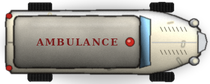
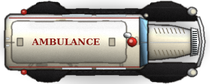
M015.9: the ambulance and the fire engine redrawn as period vehicles
Both were capsule-shaped bodies; they now have the anatomy of the other
1930s vehicles: separate sweeping wings over painted-in wheels, running
boards, a narrow louvred bonnet and an upright chrome grille and bumper.
The ambulance is a long cream coach with black wings, AMBULANCE along the
roof with a red lamp and a siren at its front, frosted side windows and
rear doors. The fire engine is an open-cab pumper in red with gold
striping: the brass bell on the cowl, a siren on a wing, the leather bench
and wheel, the pump's chrome caps, a hose bed of folded canvas, ladders
racked along both sides, black suction hose on the running boards and the
rear step. Same sizes and lamp positions as before (art only); catalog
notes and docs/ASSET_SPECS.md updated; tools/template_art/paint_emergency.py
paints them.

Claude-Session: https://claude.ai/code/session_01HoR6KCEp3G66syjHABb7zF

diff --git a/tools/template_art/paint_emergency.py b/tools/template_art/paint_emergency.py
@@ -1,102 +1,218 @@
-"""M010: the emergency's vehicles, from above, nose right like the cars. They
-are never driven by the player (scenery that drives itself to the scene), so
-every tyre is painted in.
+"""The emergency's vehicles, from above, nose right like the cars. They are never
+driven by the player (scenery that drives itself to the scene), so every tyre
+is painted in. M015: redrawn as period vehicles with the anatomy of the other
+cars - separate sweeping wings over the wheels, running boards, a narrow
+louvred bonnet and an upright chrome grille - instead of capsule bodies.
 
-cars/ambulance   - a 1930s ambulance: a long cream body on a car chassis, a
-                   grey roof with a red lamp at the front, AMBULANCE along the
-                   roof, chrome at the nose. 210 x 84.
-cars/fire_engine - a red pumper: a long bonnet, an open cab, the brass bell,
-                   a hose reel behind the seat and the ladder along the top.
-                   300 x 104."""
-import random
-
+cars/ambulance   - a long 1930s coach-built ambulance on a car chassis: a cream
+                   body with black wings and running boards, the long roof with
+                   AMBULANCE along it, a red lamp and a chrome siren at its front,
+                   frosted side windows, a bright windscreen, a narrow louvred
+                   bonnet and a tall V grille, the rear doors at the back. 210 x 84.
+cars/fire_engine - a 1930s open-cab pumper in fire-engine red with gold
+                   striping: long louvred bonnet between big wings, a chrome
+                   grille and bumper, the brass bell on the cowl, a siren on a
+                   wing, the open cab's leather bench and wheel, the pump's
+                   chrome caps behind it, the hose bed of folded canvas, ladders
+                   racked along both sides, black suction hose on the running
+                   boards, the rear step. 300 x 104."""
 from PIL import ImageDraw
 
 from paintkit import *
+from paint_props import DECO
 from paint_vehicles import lamp, tyre_top, sheen, CHROME, CHROME_DARK
 
 OUT = (20, 16, 14)
+GLASS = "#6f97b2"
 
 
-def _wheels(img, xs, w, h, wide, seed):
-    for k, x in enumerate(xs):
-        tyre_top(img, x, 2.5, x + wide, 12, seed + k)
-        tyre_top(img, x, h - 12, x + wide, h - 2.5, seed + 10 + k)
+def _pair(img, pts, h, color, seed, **kw):
+    """A shape on the top side and its mirror on the bottom (about the middle of an image h high)."""
+    for k, ps in enumerate((pts, [(x, h - y) for x, y in reversed(pts)])):
+        paint_shape(img, SP(ps), color, seed + k, **kw)
+
+
+def _wing(x0, x1, y_out, y_in, nose=0.35):
+    """A teardrop wing over a wheel, outer edge at y_out, inner edge at y_in (top side); `nose` how far forward the bulge sits."""
+    import math
+    pts = []
+    n = 24
+    for i in range(n + 1):
+        t = i / n
+        x = x0 + (x1 - x0) * t
+        bulge = math.sin(math.pi * t) ** (0.7 if t < nose else 0.9)
+        pts.append((x, y_in - (y_in - y_out) * bulge))
+    pts.append((x1 - (x1 - x0) * 0.08, y_in + 1.0))
+    pts.append((x0 + (x1 - x0) * 0.08, y_in + 1.0))
+    return pts
+
+
+def _grille(img, d, x0, x1, y0, y1, seed, slat="#2e3234"):
+    """A tall upright chrome grille, slightly V-fronted, with dark horizontal slats."""
+    mid = (y0 + y1) * 0.5
+    paint_shape(img, SP([(x0, y0), (x1 - 2, y0 + 1.5), (x1, mid), (x1 - 2, y1 - 1.5), (x0, y1)]), CHROME, seed, outline=OUT,
+                ow=1.1, wob=0.06, light=(1, -1, 0.45))
+    for y in range(int(y0 + 3), int(y1 - 2), 2):
+        d.line([(S(x0 + 1.5), S(y)), (S(x1 - 2.5), S(y))], fill=rgba(slat), width=SS)
 
 
 def ambulance(seed=81):
     W, H = 210, 84
     img = new(W, H)
-    soft_blob(img, S(105), S(44), S(100), S(38), "#000000", 70, 5 * SS)
-    _wheels(img, [28, 150], W, H, 24, seed)
-    body = "#e4dcc4"
-    paint_shape(img, SP([(6, 18), (12, 11), (150, 10), (170, 14), (194, 24), (200, 30), (200, 54), (194, 60),
-                         (170, 70), (150, 74), (12, 73), (6, 66)]), body, seed + 1, outline=OUT, ow=1.8, wob=0.25,
-                tex=0.12, strokes_n=12, light=(0.2, -1, 0.4), inner_shadow=0.3)
-    # the bonnet: louvres, the hinge strip, the radiator, lamps and bumper
-    for x in range(160, 188, 4):
-        for y0 in (27, 50):
-            line(img, [S(x, y0), S(x + 2, y0 + 4)], "#6a6250", 1.2 * SS, 200, blur=0.2)
-    line(img, [S(152, 42), S(196, 42)], CHROME, 1.3 * SS, 230, blur=0.2)
-    paint_shape(img, SP([(198, 31), (205, 34), (207, 42), (205, 50), (198, 53)]), CHROME, seed + 2, outline=OUT, ow=1.0, wob=0.05)
-    lamp(img, 194, 23, 4.6, seed + 3)
-    lamp(img, 194, 61, 4.6, seed + 4)
-    # the cabin's windscreen and the long roof with its lettering and the red lamp
-    paint_shape(img, SP([(140, 16), (150, 19), (150, 65), (140, 68)]), "#6f97b2", seed + 5, outline=OUT, ow=1.0, wob=0.1, tex=0.08,
+    d = ImageDraw.Draw(img)
+    soft_blob(img, S(104), S(44), S(100), S(38), "#000000", 70, 5 * SS)
+    black = "#1c1b1c"
+    body = "#e6dec6"
+    # every tyre painted in, under the wings
+    for x in (36, 150):
+        tyre_top(img, x, 2.5, x + 24, 12.5, seed + x)
+        tyre_top(img, x, H - 12.5, x + 24, H - 2.5, seed + x + 1)
+    # the running boards between the wings
+    _pair(img, rrect_pts(62, 9, 152, 15.5, 2), H, black, seed + 2, outline=OUT, ow=1.0, wob=0.15, tex=0.3)
+    for x in range(66, 150, 6):  # rubber treads on the boards
+        for y in (12.2, H - 12.2):
+            line(img, [(S(x), S(y)), (S(x + 3), S(y))], "#3a393a", 0.9 * SS, 200, blur=0.1)
+    # the rear and front wings (black), the front ones sweeping forward to the lamps
+    _pair(img, _wing(22, 74, 2.0, 17.5, 0.5), H, black, seed + 4, outline=OUT, ow=1.5, wob=0.2, tex=0.18, light=(0.3, -1, 0.5))
+    _pair(img, _wing(132, 200, 1.5, 20.0, 0.62), H, black, seed + 6, outline=OUT, ow=1.5, wob=0.2, tex=0.18, light=(0.3, -1, 0.5))
+    for y in (8.0, H - 8.0):
+        sheen(img, [(146, y - 1.5), (190, y - 0.8), (190, y + 0.4), (146, y - 0.2)], 50, 0.8)
+    # the coach body: long and square-backed, the roof inset with a seam, a red stripe along each side
+    paint_shape(img, SP(rrect_pts(5, 14, 146, 70, 7)), body, seed + 8, outline=OUT, ow=1.8, wob=0.2, tex=0.1, strokes_n=12,
+                stroke_cols=[shade(body, 1.04), shade(body, 0.93)], light=(0.2, -1, 0.4), inner_shadow=0.3)
+    for y in (17.5, H - 17.5):
+        line(img, [(S(9), S(y)), (S(140), S(y))], "#9c2a22", 1.3 * SS, 230, blur=0.2)
+    # frosted side windows along the coach (seen edge-on from above as pale strips)
+    for x0, x1 in ((62, 92), (96, 126)):
+        for y0, y1 in ((14.5, 16.2), (H - 16.2, H - 14.5)):
+            paint_shape(img, SP(rrect_pts(x0, y0, x1, y1, 0.8)), "#c9d6dc", seed + x0, outline=None, wob=0.05, tex=0.05)
+    paint_shape(img, SP(rrect_pts(12, 21, 126, 63, 5)), "#ece6d2", seed + 9, outline=(110, 100, 84), ow=1.0, wob=0.15, tex=0.08,
+                light=(0.1, -1, 0.5))
+    text(img, (66, 42), "AMBULANCE", 9.0, "#8a1e1a", font=DECO)
+    for x in (20, 112):  # roof ventilators
+        paint_shape(img, SP(rrect_pts(x - 3, 38, x + 3, 46, 1.2)), "#bdb6a2", seed + x, outline=OUT, ow=0.7, wob=0.05)
+    # the red lamp and the chrome siren at the front of the roof
+    paint_shape(img, SP(ellipse_pts(132, 42, 4.6, 4.6)), "#c42820", seed + 10, outline=OUT, ow=0.9, wob=0.05, light=(0.4, -1, 0.6))
+    soft_blob(img, S(131), S(41), S(1.9), S(1.7), "#ffc0b0", 220, 0.5 * SS)
+    paint_shape(img, SP(rrect_pts(124, 33, 131, 37.5, 1.8)), CHROME, seed + 11, outline=OUT, ow=0.7, wob=0.05, light=(1, -1, 0.5))
+    # the windscreen at the front of the coach (the brightest glass), the cowl ahead of it
+    paint_shape(img, SP([(140, 17), (148, 20), (148, 64), (140, 67)]), GLASS, seed + 12, outline=OUT, ow=1.2, wob=0.1, tex=0.08,
                 light=(1, -1, 0.6))
-    paint_shape(img, SP(rrect_pts(14, 16, 140, 68, 6)), "#9a968c", seed + 6, outline=OUT, ow=1.5, wob=0.2, tex=0.15,
-                light=(0.1, -1, 0.5), inner_shadow=0.25)
-    text(img, (77, 42), "AMBULANCE", 9.5, "#7a1e1e", spacing=1.2)
-    paint_shape(img, SP(ellipse_pts(130, 42, 4.2, 4.2)), "#c42820", seed + 7, outline=OUT, ow=0.9, wob=0.05)
-    soft_blob(img, S(129), S(41), S(1.8), S(1.6), "#ffb0a0", 200, 0.5 * SS)
-    # the back doors and the tail lamps
-    line(img, [S(8, 42), S(13, 42)], "#7a7262", 1.2 * SS, 220)
-    for y in (16, 68):
-        paint_shape(img, SP(ellipse_pts(9, y, 3.0, 2.6)), "#b3221c", seed + 8, outline=OUT, ow=0.8, wob=0.1)
-    sheen(img, [(30, 22), (130, 22), (130, 27), (30, 27)], 45, 2.0)
+    line(img, [(S(142), S(21)), (S(146.5), S(30))], "#e6f2fa", 1.3 * SS, 190, blur=0.4)
+    line(img, [(S(140.5), S(42)), (S(147.5), S(42))], CHROME_DARK, 1.0 * SS, 230)
+    # the bonnet: narrow, cream, louvred, a chrome strip down the middle, narrowing to the grille
+    hood = [(148, 24), (176, 26), (192, 30), (192, 54), (176, 58), (148, 60)]
+    paint_shape(img, SP(hood), body, seed + 13, outline=OUT, ow=1.5, wob=0.2, tex=0.1, light=(0.2, -1, 0.45), inner_shadow=0.3)
+    for x in range(154, 186, 4):
+        for y0 in (28, 50):
+            line(img, [(S(x), S(y0)), (S(x + 2), S(y0 + 5))], "#857a62", 1.2 * SS, 210, blur=0.2)
+    line(img, [(S(150), S(42)), (S(191), S(42))], CHROME, 1.3 * SS, 230, blur=0.2)
+    sheen(img, [(156, 33), (188, 34), (188, 36), (156, 35)], 55, 1.2)
+    # the tall V grille, the bumper bowed forward, the headlamps on the wings, a spotlight by the screen
+    _grille(img, d, 191, 199, 28, 56, seed + 14)
+    paint_shape(img, SP([(199, 17), (203, 28), (205, 42), (203, 56), (199, 67), (196.5, 67), (200, 56), (202, 42), (200, 28),
+                         (196.5, 17)]), CHROME, seed + 15, outline=OUT, ow=1.0, wob=0.05, light=(1, -1, 0.4))
+    lamp(img, 192, 11.5, 4.6, seed + 16)
+    lamp(img, 192, H - 11.5, 4.6, seed + 17)
+    lamp(img, 146, 15.5, 2.4, seed + 18)
+    # the back: the double doors' seam and handles, the red tail lamps on the rear wings
+    line(img, [(S(5.5), S(42)), (S(14), S(42))], "#7a7262", 1.2 * SS, 220)
+    for y in (38.5, 45.5):
+        paint_shape(img, SP(rrect_pts(6, y - 1, 9.5, y + 1, 0.5)), CHROME, seed + 19, outline=None, wob=0.02)
+    for y in (12, H - 12):
+        paint_shape(img, SP(ellipse_pts(24, y, 3.0, 2.6)), "#b3221c", seed + 20, outline=OUT, ow=0.8, wob=0.1)
+        soft_blob(img, S(23.6), S(y - 0.5), S(1.2), S(1.0), "#ffb0a0", 160, 0.4 * SS)
+    sheen(img, [(30, 23), (122, 23), (122, 27), (30, 27)], 40, 2.0)
     return finish(grain(img, 3, seed), W, H)
 
 
 def fire_engine(seed=91):
     W, H = 300, 104
     img = new(W, H)
+    d = ImageDraw.Draw(img)
     soft_blob(img, S(150), S(54), S(144), S(46), "#000000", 70, 6 * SS)
-    _wheels(img, [40, 64, 226], W, H, 22, seed)
-    red = "#b0261c"
-    # the long body, the bonnet ahead of the cab
-    paint_shape(img, SP([(4, 20), (10, 13), (210, 12), (248, 16), (282, 26), (290, 34), (290, 70), (282, 78), (248, 88),
-                         (210, 92), (10, 91), (4, 84)]), red, seed + 1, outline=OUT, ow=2.0, wob=0.25, tex=0.15,
-                strokes_n=16, light=(0.2, -1, 0.45), inner_shadow=0.3)
-    for x in range(250, 278, 4):
-        for y0 in (32, 66):
-            line(img, [S(x, y0), S(x + 2, y0 + 5)], "#4a0c08", 1.3 * SS, 210, blur=0.2)
-    paint_shape(img, SP([(288, 36), (296, 40), (298, 52), (296, 64), (288, 68)]), CHROME, seed + 2, outline=OUT, ow=1.0, wob=0.05)
-    lamp(img, 284, 28, 5.2, seed + 3)
-    lamp(img, 284, 76, 5.2, seed + 4)
-    # the brass bell before the windscreen
-    paint_shape(img, SP(ellipse_pts(250, 52, 6.0, 6.0)), "#d8b050", seed + 5, outline=OUT, ow=1.0, wob=0.05, light=(0.4, -1, 0.7))
-    soft_blob(img, S(248), S(50), S(2.0), S(1.8), "#fff4c0", 200, 0.5 * SS)
-    # the open cab: the seat and the windscreen
-    paint_shape(img, SP([(232, 22), (240, 24), (240, 80), (232, 82)]), "#6f97b2", seed + 6, outline=OUT, ow=1.0, wob=0.1,
+    red = "#b3241a"
+    gold = "#d6b25e"
+    # every tyre painted in: big dual rears, the fronts under the wings
+    for x0, x1 in ((44, 86), (222, 248)):
+        tyre_top(img, x0, 2.0, x1, 13, seed + x0)
+        tyre_top(img, x0, H - 13, x1, H - 2.0, seed + x0 + 1)
+    # running boards with diamond plate, the black suction hose racked along them
+    _pair(img, rrect_pts(88, 8, 222, 15, 2), H, "#8a8d90", seed + 2, outline=OUT, ow=1.0, wob=0.12, tex=0.35)
+    for x in range(92, 220, 5):
+        for y in (11.5, H - 11.5):
+            line(img, [(S(x), S(y - 1.6)), (S(x + 2), S(y + 1.6))], "#5d6064", 0.8 * SS, 200, blur=0.1)
+    for y in (6.5, H - 6.5):
+        paint_shape(img, SP(rrect_pts(96, y - 3.2, 196, y + 3.2, 3.0)), "#191919", seed + 3, outline=OUT, ow=0.9, wob=0.1, tex=0.3)
+        for x in range(99, 194, 3):  # its corrugations
+            line(img, [(S(x), S(y - 2.6)), (S(x), S(y + 2.6))], "#353535", 0.9 * SS, 200, blur=0.1)
+    # the rear wings and the big front wings, red with a gold pinstripe
+    _pair(img, _wing(36, 94, 1.5, 19, 0.5), H, red, seed + 4, outline=OUT, ow=1.6, wob=0.2, tex=0.16, light=(0.3, -1, 0.5))
+    _pair(img, _wing(200, 280, 1.0, 24, 0.62), H, red, seed + 6, outline=OUT, ow=1.6, wob=0.2, tex=0.16, light=(0.3, -1, 0.5))
+    for y in (9.0, H - 9.0):
+        line(img, [(S(214), S(y + (2 if y < 50 else -2))), (S(266), S(y))], gold, 0.9 * SS, 200, blur=0.2)
+        sheen(img, [(214, y - 1.5), (266, y - 1.2), (266, y), (214, y - 0.2)], 45, 0.8)
+    # the body behind the cab: red, square, gold striping round its edge
+    paint_shape(img, SP(rrect_pts(6, 15, 178, 89, 5)), red, seed + 8, outline=OUT, ow=1.9, wob=0.2, tex=0.15, strokes_n=14,
+                stroke_cols=[shade(red, 1.08), shade(red, 0.9)], light=(0.2, -1, 0.45), inner_shadow=0.3)
+    for y in (18.5, H - 18.5):
+        line(img, [(S(10), S(y)), (S(174), S(y))], gold, 0.9 * SS, 210, blur=0.2)
+    # the hose bed: folded canvas hose, lying in long flakes along the body
+    paint_shape(img, SP(rrect_pts(14, 30, 150, 74, 3)), "#3a1410", seed + 9, outline=OUT, ow=1.0, wob=0.1, tex=0.3)
+    for k, y in enumerate(range(32, 74, 4)):
+        flake = "#c4a874" if k % 2 == 0 else "#b39660"
+        paint_shape(img, SP(rrect_pts(16 + (k % 3), y, 148 - (k % 2) * 2, y + 3.4, 1.6)), flake, seed + 30 + k, outline=(90, 70, 40),
+                    ow=0.6, wob=0.2, tex=0.25, light=(0.2, -1, 0.5))
+    for x in (40, 96):  # the brass couplings at the hose's folds
+        paint_shape(img, SP(ellipse_pts(x, 52, 2.6, 2.6)), gold, seed + x, outline=OUT, ow=0.6, wob=0.02, light=(0.4, -1, 0.7))
+    # ladders racked along both sides: two wooden rails and the rungs
+    for yc in (24.0, H - 24.0):
+        for yr in (yc - 3.4, yc + 3.4):
+            paint_shape(img, SP(rrect_pts(8, yr - 1.4, 170, yr + 1.4, 0.8)), "#c79e5c", seed + int(yr), outline=OUT, ow=0.7, wob=0.08,
+                        tex=0.25, light=(0.2, -1, 0.5))
+        for x in range(13, 168, 7):
+            line(img, [(S(x), S(yc - 2.2)), (S(x), S(yc + 2.2))], "#9a7440", 1.2 * SS, 240, blur=0.1)
+    # the pump behind the seat: its housing and chrome caps
+    paint_shape(img, SP(rrect_pts(152, 32, 178, 72, 3)), shade(red, 0.86), seed + 10, outline=OUT, ow=1.2, wob=0.1, tex=0.15)
+    for y in (40, 52, 64):
+        paint_shape(img, SP(ellipse_pts(165, y, 4.0, 4.0)), CHROME, seed + y, outline=OUT, ow=0.8, wob=0.03, light=(1, -1, 0.6))
+        soft_blob(img, S(164), S(y - 1), S(1.4), S(1.2), "#ffffff", 200, 0.3 * SS)
+    # the open cab: the black leather bench with its tufting, the steering wheel, the cowl and windscreen
+    paint_shape(img, SP(rrect_pts(178, 17, 214, 87, 5)), red, seed + 11, outline=OUT, ow=1.6, wob=0.15, tex=0.14, light=(0.2, -1, 0.45))
+    paint_shape(img, SP(rrect_pts(182, 21, 200, 83, 3)), "#1e1a18", seed + 12, outline=OUT, ow=1.0, wob=0.12, tex=0.3)
+    for y in range(26, 80, 8):
+        line(img, [(S(184), S(y)), (S(198), S(y))], "#3a322c", 1.0 * SS, 220, blur=0.2)
+    d.ellipse([S(200), S(26), S(212), S(38)], outline=rgba("#1a1614"), width=int(1.6 * SS))  # the wheel, driver's side
+    line(img, [(S(206), S(32)), (S(212), S(32))], "#1a1614", 1.2 * SS, 255, blur=0.1)
+    paint_shape(img, SP([(212, 19), (220, 22), (220, 82), (212, 85)]), GLASS, seed + 13, outline=OUT, ow=1.2, wob=0.1, tex=0.08,
                 light=(1, -1, 0.6))
-    paint_shape(img, SP(rrect_pts(206, 24, 230, 80, 3)), "#3a2a20", seed + 7, outline=OUT, ow=1.0, wob=0.15, tex=0.3)
-    # the hose reel (a drum of grey hose) behind the seat
-    paint_shape(img, SP(rrect_pts(176, 26, 202, 78, 6)), "#6a6a64", seed + 8, outline=OUT, ow=1.0, wob=0.15, tex=0.3,
-                light=(0.2, -1, 0.5))
-    for y in range(30, 76, 4):
-        line(img, [S(178, y), S(200, y)], "#4a4a46", 0.9 * SS, 200)
-    # the ladder along the top: two wooden rails and the rungs
-    for y in (34, 70):
-        paint_shape(img, SP(rrect_pts(10, y - 3, 200, y + 3, 1)), "#c09a5a", seed + 9 + y, outline=OUT, ow=0.9, wob=0.1,
-                    tex=0.25, light=(0.2, -1, 0.5))
-    for x in range(16, 198, 9):
-        line(img, [S(x, 37), S(x, 67)], "#a07a42", 1.6 * SS, 240)
-    # chrome rails and the tail lamps
-    for y in (15, 89):
-        line(img, [S(14, y), S(204, y)], CHROME_DARK, 1.2 * SS, 220)
-    for y in (18, 86):
-        paint_shape(img, SP(ellipse_pts(8, y, 3.2, 2.8)), "#e04a2a", seed + 12, outline=OUT, ow=0.8, wob=0.1)
-    sheen(img, [(246, 30), (282, 34), (282, 38), (246, 35)], 55, 1.6)
+    line(img, [(S(214), S(24)), (S(218.5), S(34))], "#e6f2fa", 1.3 * SS, 190, blur=0.4)
+    # the bonnet: long, louvred, a gold strip down the middle, the brass bell on the cowl ahead of the screen
+    hood = [(220, 28), (252, 30), (274, 34), (274, 70), (252, 74), (220, 76)]
+    paint_shape(img, SP(hood), red, seed + 14, outline=OUT, ow=1.6, wob=0.2, tex=0.14, strokes_n=6,
+                stroke_cols=[shade(red, 1.1), shade(red, 0.9)], light=(0.2, -1, 0.45), inner_shadow=0.3)
+    for x in range(232, 270, 4):
+        for y0 in (33, 64):
+            line(img, [(S(x), S(y0)), (S(x + 2), S(y0 + 6))], "#4a0c08", 1.3 * SS, 210, blur=0.2)
+    line(img, [(S(222), S(52)), (S(273), S(52))], gold, 1.2 * SS, 230, blur=0.2)
+    text(img, (248, 44), "12", 7.0, gold, font=DECO)
+    paint_shape(img, SP(ellipse_pts(227, 52, 6.4, 6.4)), "#d8b050", seed + 15, outline=OUT, ow=1.0, wob=0.04, light=(0.4, -1, 0.75))
+    soft_blob(img, S(225.4), S(50.2), S(2.2), S(2.0), "#fff4c0", 210, 0.5 * SS)
+    paint_shape(img, SP(ellipse_pts(227, 52, 1.6, 1.6)), "#7a5a20", seed + 16, outline=None, wob=0.02)
+    sheen(img, [(236, 38), (270, 39), (270, 41), (236, 40)], 55, 1.4)
+    # the grille, the bumper, the headlamps on the wings, a chrome siren on the near wing
+    _grille(img, d, 273, 283, 32, 72, seed + 17)
+    paint_shape(img, SP([(284, 20), (289, 34), (291, 52), (289, 70), (284, 84), (281.5, 84), (286, 70), (288, 52), (286, 34),
+                         (281.5, 20)]), CHROME, seed + 18, outline=OUT, ow=1.0, wob=0.05, light=(1, -1, 0.4))
+    lamp(img, 272, 14, 5.4, seed + 19)
+    lamp(img, 272, H - 14, 5.4, seed + 20)
+    paint_shape(img, SP(rrect_pts(252, 9, 263, 15, 2.6)), CHROME, seed + 21, outline=OUT, ow=0.8, wob=0.05, light=(1, -1, 0.5))
+    soft_blob(img, S(261), S(12), S(1.2), S(1.6), "#2a2a2a", 220, 0.2 * SS)
+    # the rear step (chrome plate) and red tail lamps on the rear wings
+    paint_shape(img, SP(rrect_pts(1.5, 28, 8, 76, 1.5)), "#9a9da0", seed + 22, outline=OUT, ow=1.0, wob=0.05, tex=0.3)
+    for y in (12, H - 12):
+        paint_shape(img, SP(ellipse_pts(40, y, 3.2, 2.8)), "#e04a2a", seed + 23, outline=OUT, ow=0.8, wob=0.1)
+        soft_blob(img, S(39.6), S(y - 0.5), S(1.2), S(1.0), "#ffc0a0", 170, 0.4 * SS)
     return finish(grain(img, 3, seed), W, H)
 
 

diff --git a/docs/ASSET_SPECS.md b/docs/ASSET_SPECS.md
@@ -14,11 +14,11 @@ image is its window light at night and is replaced separately. Cars and people f
 
 | Logical name | Override path | Template px | Kind | In the world | Notes |
 | --- | --- | --- | --- | --- | --- |
-| `cars/ambulance` | `custom/graphics/cars/ambulance.png` | 210x84 | sprite (image, scaled to its display size) | 92x37 | M010: a 1930s ambulance from above, nose right, every tyre painted in (it drives itself to the scene; never the player's). |
+| `cars/ambulance` | `custom/graphics/cars/ambulance.png` | 210x84 | sprite (image, scaled to its display size) | 92x37 | M010, redrawn M015: a long 1930s coach-built ambulance from above, nose right, every tyre painted in (it drives itself to the scene; never the player's): cream coach with black wings and running boards, AMBULANCE on the roof with a red lamp and a siren at its front, a narrow louvred bonnet and a tall V grille. |
 | `cars/coupe` | `custom/graphics/cars/coupe.png` | 176x80 | sprite (image, scaled to its display size) | 80x36 | Roadster, top-down, nose right, centred, transparent background; front tyres left out. Headlamps at (32, +-7.6), tail lamps at (-35.5, +-7.2) display px. |
 | `cars/coupe_b` | `custom/graphics/cars/coupe_b.png` | 176x80 | sprite (image, scaled to its display size) | 80x36 | Roadster, second paint scheme; same contract. |
 | `cars/dump_truck` | `custom/graphics/cars/dump_truck.png` | 280x110 | sprite (image, scaled to its display size) | 112x44 | M009: Brennan Coal & Ice's 1930s dump truck, top-down, nose right, centred, transparent background; front tyres left out (cars/wheel, drawn larger). Long bonnet, upright grille and headlamps (48, +-13) at the right; coal bed and red tail lamps (-53, +-17) at the left; dual rear tyres painted under the bed. |
-| `cars/fire_engine` | `custom/graphics/cars/fire_engine.png` | 300x104 | sprite (image, scaled to its display size) | 130x45 | M010: a red pumper from above, nose right: bonnet, bell, open cab, hose reel, the ladder along the top; every tyre painted in. |
+| `cars/fire_engine` | `custom/graphics/cars/fire_engine.png` | 300x104 | sprite (image, scaled to its display size) | 130x45 | M010, redrawn M015: a 1930s open-cab pumper from above, nose right, every tyre painted in: red with gold striping, a long louvred bonnet between big wings, chrome grille, the brass bell on the cowl, the open cab's bench, the pump's caps, a hose bed of folded canvas, ladders racked along both sides, suction hose on the running boards. |
 | `cars/lefty` | `custom/graphics/cars/lefty.png` | 176x80 | sprite (image, scaled to its display size) | 80x36 | M015: Lefty Moran's own speedster (one of a kind): black, a closed cream roof, chrome exhaust pipes out of the hood sides, a trunk on the rack; top-down, nose right, front tyres left out. Headlamps at (32, +-7.6), tail lamps at (-35, +-7.4) display px. |
 | `cars/police` | `custom/graphics/cars/police.png` | 176x80 | sprite (image, scaled to its display size) | 80x36 | Police squad car (sedan body): black, POLICE across the roof, siren, spotlight. |
 | `cars/school_bus` | `custom/graphics/cars/school_bus.png` | 340x102 | sprite (image, scaled to its display size) | 140x42 | M009: St. Brendan's parish school bus, early 1930s, top-down, nose right, centred, transparent background; front tyres left out (cars/wheel, drawn larger). Short bonnet, radiator and headlamps (65, +-13) at the right, emergency door and red tail lamps (-67, +-16) at the left; SCHOOL BUS on the roof. |
